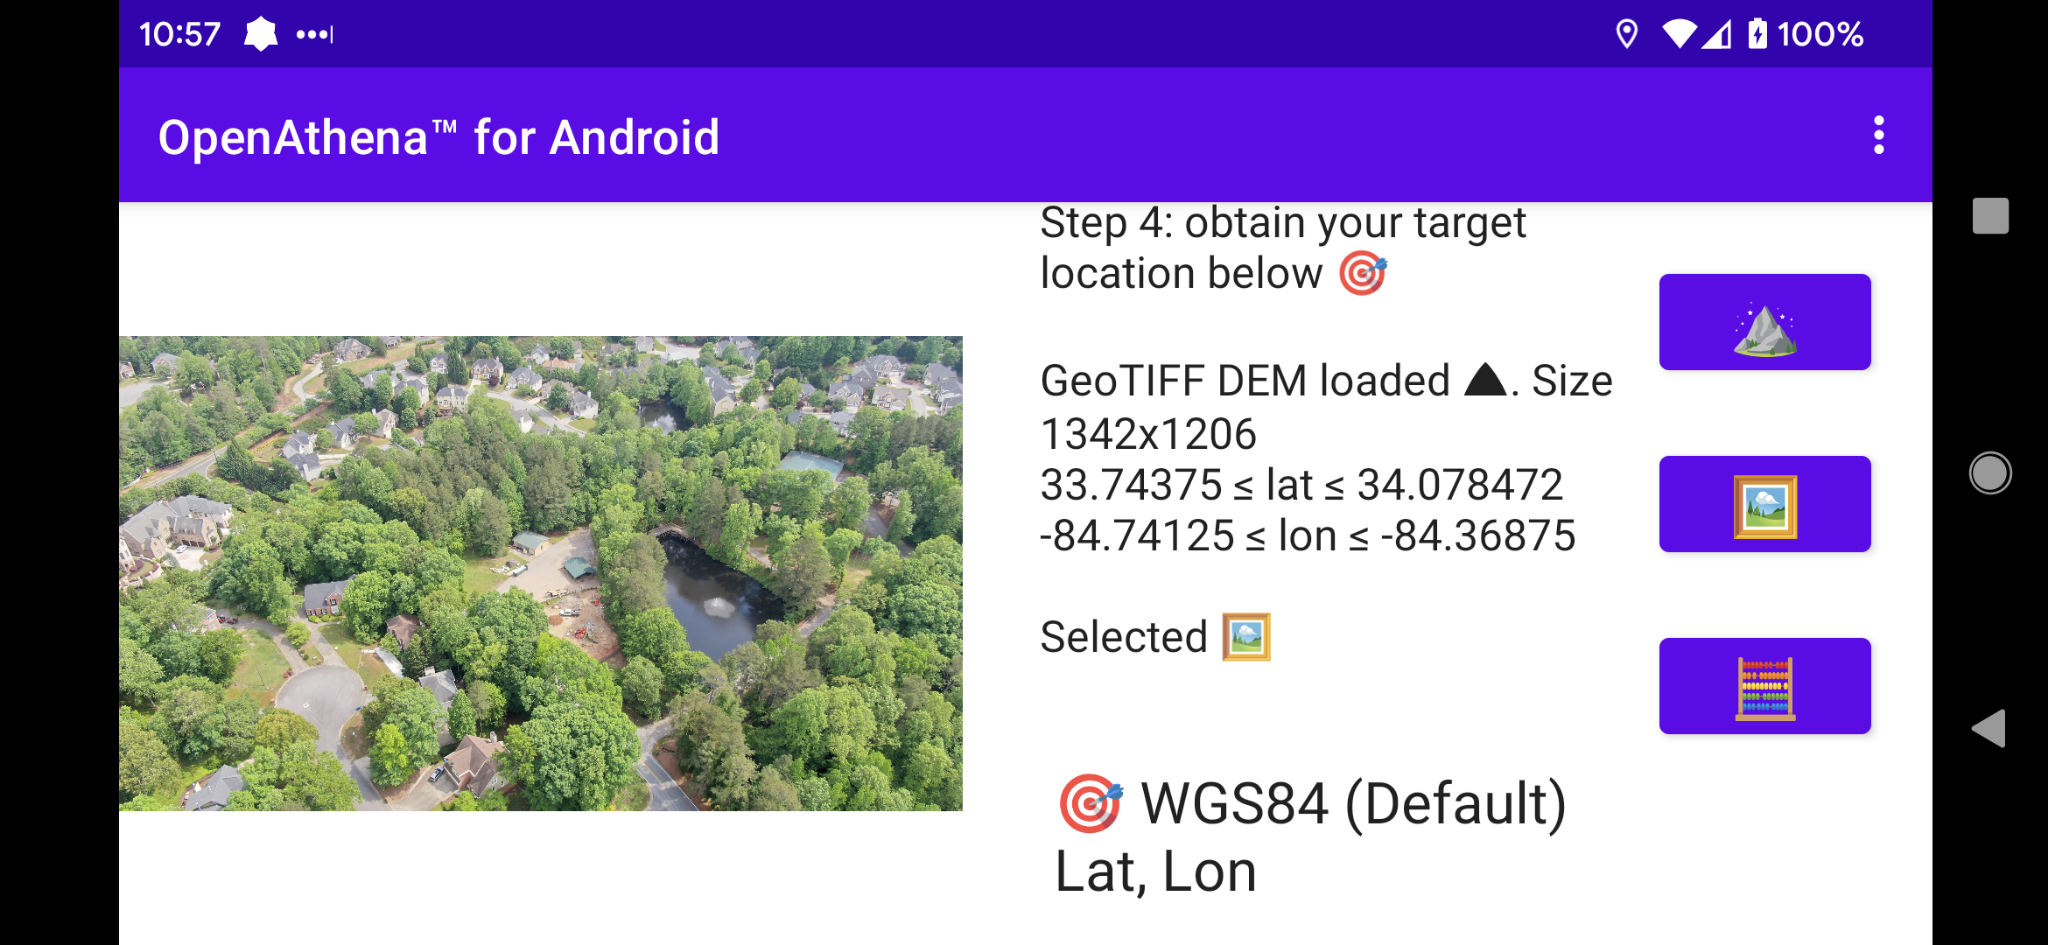
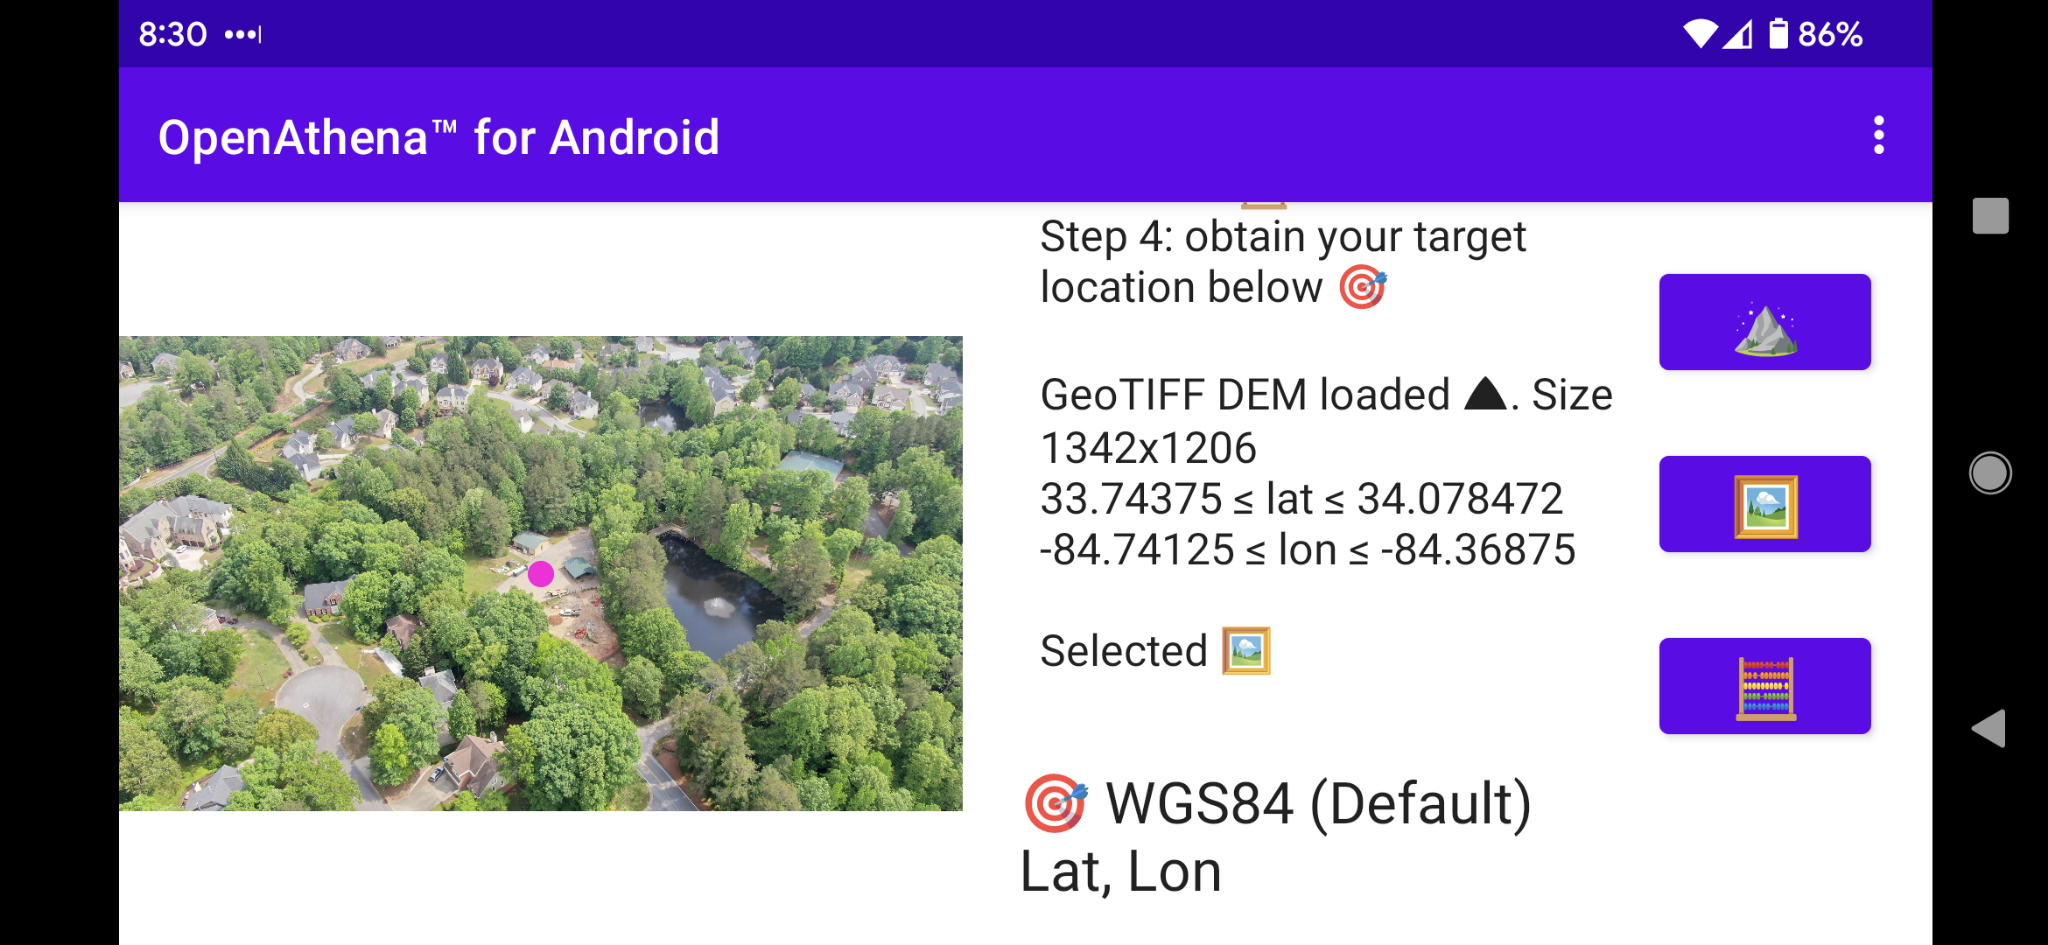
REAME.md update images and add magnetometer warning

diff --git a/README.md b/README.md
@@ -3,7 +3,7 @@ OpenAthena for Android
 
 An Android port of the [OpenAthena project](http://OpenAthena.com)
 
-OpenAthena™ allows consumer and professional drones to spot precise geodetic locations
+OpenAthena™ allows consumer and professional drones to spot precise geodetic locations.
 
 🖼👨💻 + 🧮⛰ = 🎯📍
 
@@ -39,6 +39,14 @@ Load the DEM file (e.g. cobb.tif) using the "⛰" button. The app will display t
 
 
 <img width="586" alt="OpenAthena™ Android GeoTIFF DEM loading demo using cobb.tif" src="./assets/cobb_tif_DEM_Loading_Demo_landscape.png">
+
+## Calibrate your drone's compass sensor and take photos :
+
+It is _**strongly suggested**_ that you should [calibrate the drone's compass sensor for the local environment](https://phantompilots.com/threads/compass-calibration-a-complete-primer.32829/) before taking photos to be used with OpenAthena. Consult your drone's operation manual for this procedure. The image metadata from an un-calibrated drone can be many degrees off from the correct heading. This can result in dramatic Target-resolution inaccuracies. _**Always**_ verify a target match location from OpenAthena before use!
+
+E.x.:
+
+<img width="586" alt="OpenAthena Android an example of a bad target resolution due to an un-calibrated magnetometer compass sensor" src="./assets/magnetometer_fail.png">
 
 
 ## Select an Image 🖼:
